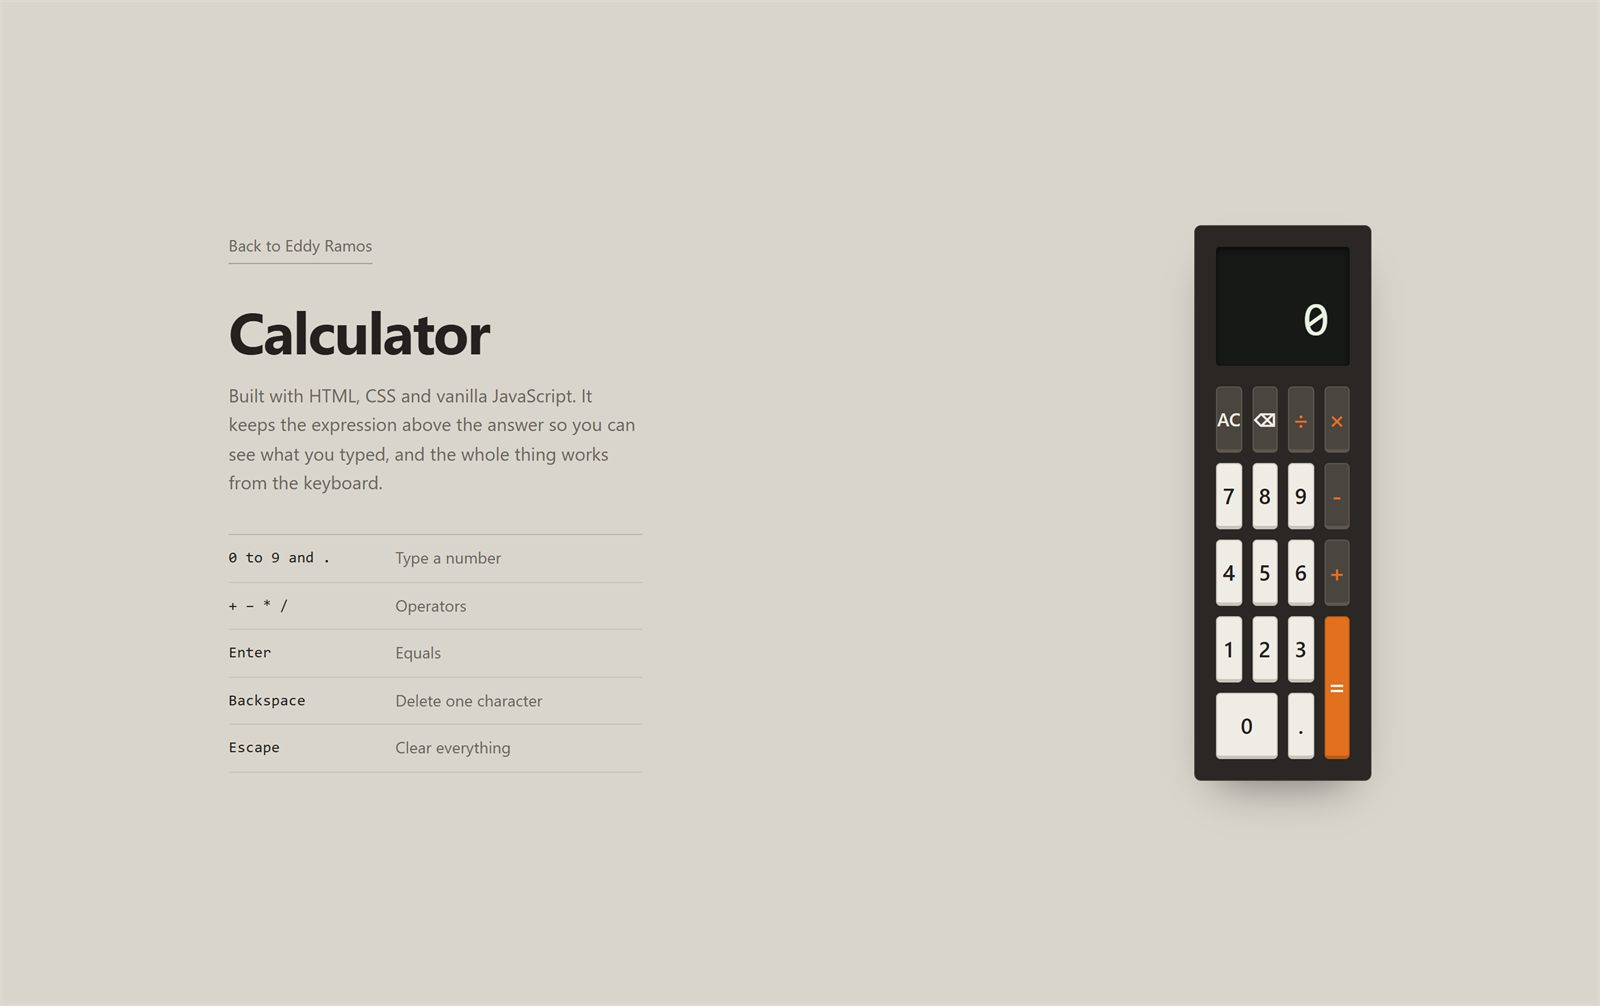
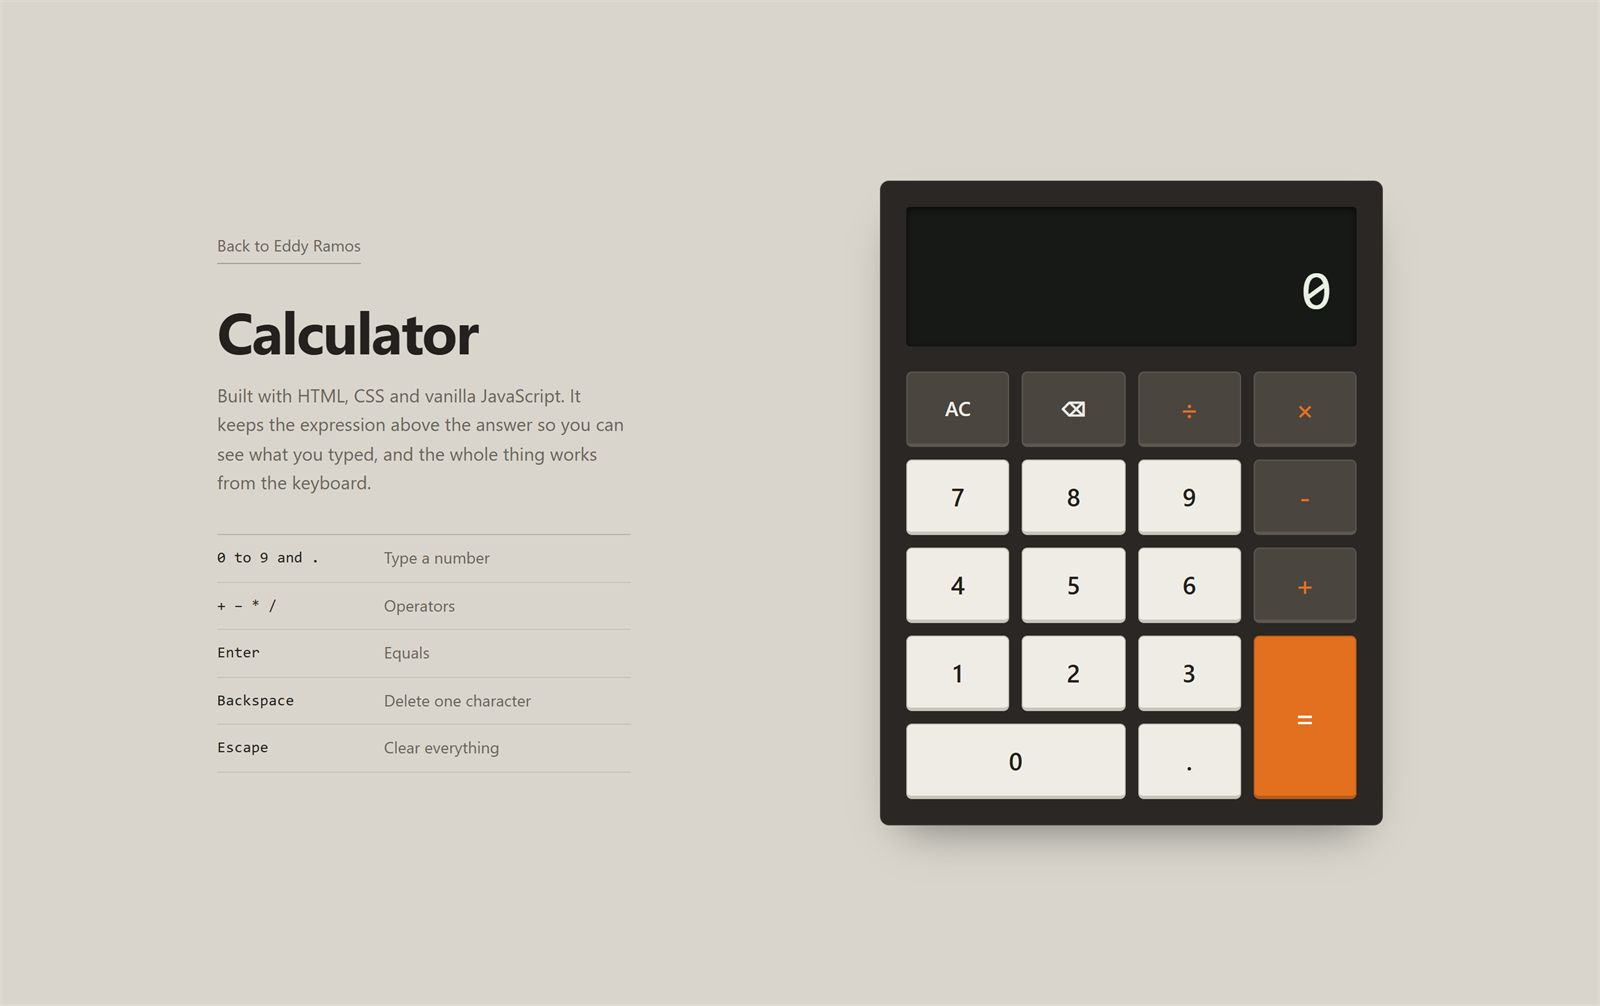
Widen the calculator so it has the proportions of a real one
The unit sat in an auto sized grid track, so the width on .calculator
resolved against the track instead of setting it and the keys came out
narrow and tall. Fixed track, wider keys, larger display.

diff --git a/calculator/style.css b/calculator/style.css
@@ -52,11 +52,12 @@ a {
 
 .app-shell {
     display: grid;
-    grid-template-columns: minmax(0, 1fr) auto;
+    /* fixed track for the unit, so its width is not decided by its contents */
+    grid-template-columns: minmax(0, 1fr) 440px;
     gap: clamp(32px, 6vw, 80px);
     align-items: center;
     justify-content: center;
-    max-width: 1000px;
+    max-width: 1020px;
     min-height: calc(100vh - clamp(40px, 10vw, 120px));
     margin-inline: auto;
 }
@@ -117,17 +118,18 @@ a {
 /* ---------------------------------------------------------------- the unit */
 
 .calculator {
-    width: min(340px, 100%);
-    padding: 18px;
+    width: 100%;
+    max-width: 440px;
+    padding: 22px;
     background: var(--case);
     border: 1px solid var(--case-edge);
-    border-radius: 6px;
+    border-radius: 8px;
     box-shadow: 0 20px 40px -20px rgba(0, 0, 0, 0.5);
 }
 
 .display {
-    padding: 20px 18px 16px;
-    margin-bottom: 18px;
+    padding: 26px 22px 20px;
+    margin-bottom: 22px;
     background: var(--screen);
     border-radius: 3px;
     text-align: right;
@@ -146,7 +148,7 @@ a {
 .screen {
     color: var(--screen-text);
     font-family: ui-monospace, Consolas, monospace;
-    font-size: clamp(2rem, 8vw, 2.6rem);
+    font-size: clamp(2.2rem, 8vw, 3rem);
     font-weight: 500;
     line-height: 1.2;
     word-break: break-all;
@@ -155,18 +157,18 @@ a {
 .keypad {
     display: grid;
     grid-template-columns: repeat(4, 1fr);
-    gap: 9px;
+    gap: 11px;
 }
 
 .btn {
-    min-height: 58px;
+    min-height: 66px;
     border: 1px solid var(--key-edge);
     border-bottom-width: 3px;
-    border-radius: 4px;
+    border-radius: 5px;
     background: var(--key);
     color: var(--ink);
     font: inherit;
-    font-size: 1.2rem;
+    font-size: 1.35rem;
     font-weight: 600;
     cursor: pointer;
     transition: filter 0.12s ease, transform 0.05s ease;
@@ -187,14 +189,14 @@ a {
     background: var(--key-dark);
     border-color: var(--key-dark-edge);
     color: #efece5;
-    font-size: 1rem;
+    font-size: 1.1rem;
 }
 
 .operator {
     background: var(--key-dark);
     border-color: var(--key-dark-edge);
     color: var(--orange);
-    font-size: 1.35rem;
+    font-size: 1.5rem;
 }
 
 .equals {
@@ -202,7 +204,7 @@ a {
     background: var(--orange);
     border-color: var(--orange-edge);
     color: #fff;
-    font-size: 1.4rem;
+    font-size: 1.6rem;
 }
 
 .zero {
@@ -211,7 +213,7 @@ a {
 
 /* ---------------------------------------------------------------- responsive */
 
-@media (max-width: 820px) {
+@media (max-width: 900px) {
     .app-shell {
         grid-template-columns: minmax(0, 1fr);
         justify-items: center;
@@ -221,10 +223,6 @@ a {
 
     .intro-panel {
         max-width: 100%;
-    }
-
-    .calculator {
-        width: min(360px, 100%);
     }
 }
 
